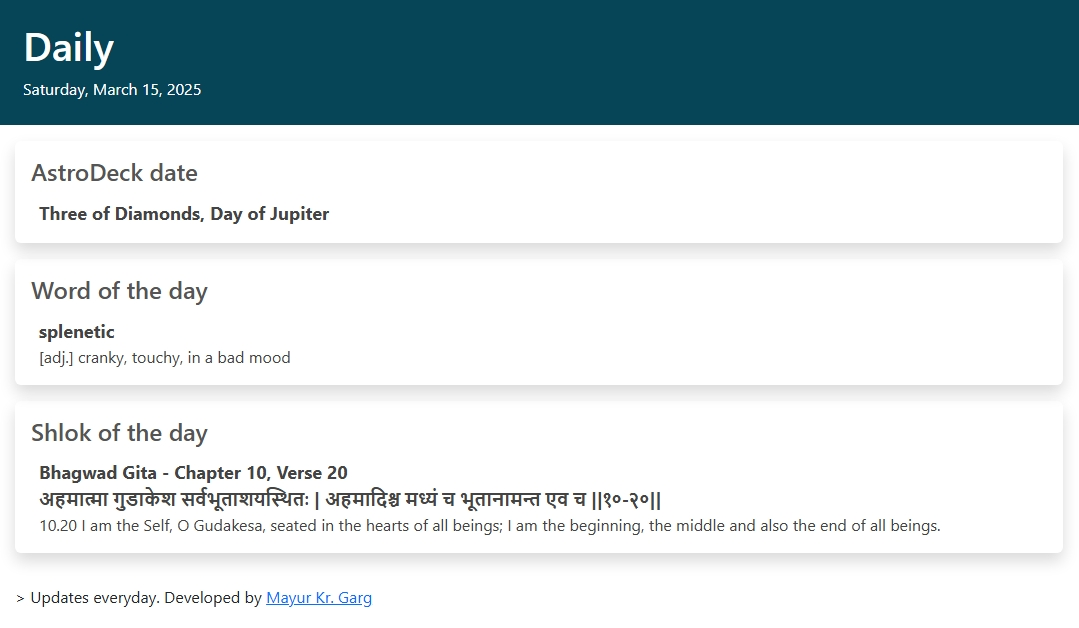
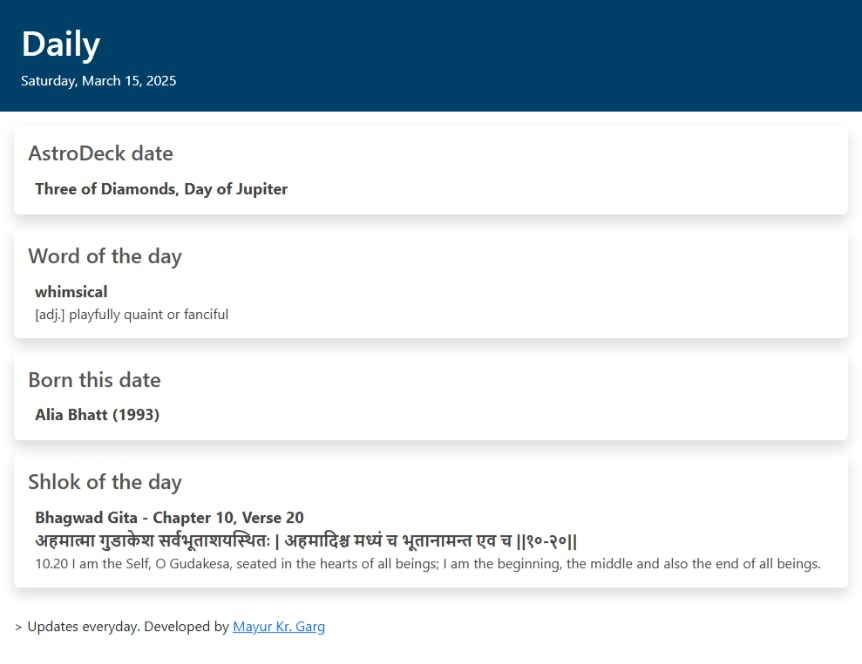
Added born today. Updated data.

diff --git a/index.html b/index.html
@@ -12,7 +12,7 @@
 </head>
 
 <body>
-    <div class="p-4" style="background-color: rgb(24, 136, 104);">
+    <div class="p-4" style="background-color: rgb(8, 93, 74);">
         <h1 id="daily-title">Daily</h1>
         <p id="calendar-date">Sunday, March 23, 2025</p>
     </div>
@@ -22,15 +22,19 @@
     </div>
     <div class="p-3 m-3 rounded shadow">
         <h3 class="section-heading">Word of the day</h3>
-        <p class="section-content bold-content">amass</p>
-        <p class="section-content">[verb] to gather or collect in large amounts</p>
+        <p class="section-content bold-content">heinous</p>
+        <p class="section-content">[adj.] shockingly evil or wicked</p>
+    </div>
+    <div class="p-3 m-3 rounded shadow">
+        <h3 class="section-heading">Born this date</h3>
+        <p class="section-content bold-content">No record of someone born on this date</p>
     </div>
     <div class="p-3 m-3 rounded shadow">
         <h3 class="section-heading">Shlok of the day</h3>
-        <p class="section-content bold-content">Bhagwad Gita - Chapter 10, Verse 35</p>
-        <p class="section-content bold-content">बृहत्साम तथा साम्नां गायत्री छन्दसामहम् |
-मासानां मार्गशीर्षोऽहमृतूनां कुसुमाकरः ||१०-३५||</p>
-        <p class="section-content">10.35 Among the hymns also I am the Brihatsaman; among metres Gayatri am I; among the montsh I am the Margasirsha; among the seasons (I am) the flowery season.</p>
+        <p class="section-content bold-content">Bhagwad Gita - Chapter 18, Verse 8</p>
+        <p class="section-content bold-content">दुःखमित्येव यत्कर्म कायक्लेशभयात्त्यजेत् |
+स कृत्वा राजसं त्यागं नैव त्यागफलं लभेत् ||१८-८||</p>
+        <p class="section-content">18.8 He who abandons action on account of the fear of bodily trouble (because it is painful), does not obtain the merit of renunciation by doing such Rajasic renunciation.</p>
     </div>
     <div class="p-3">
         <p>> Updates everyday. Developed by <a href="https://github.com/mayur7garg" target="_blank">Mayur Kr. Garg</a>

diff --git a/index.template.html b/index.template.html
@@ -26,6 +26,10 @@
         <p class="section-content">{daily_meaning}</p>
     </div>
     <div class="p-3 m-3 rounded shadow">
+        <h3 class="section-heading">Born this date</h3>
+        <p class="section-content bold-content">{born_this_date}</p>
+    </div>
+    <div class="p-3 m-3 rounded shadow">
         <h3 class="section-heading">Shlok of the day</h3>
         <p class="section-content bold-content">Bhagwad Gita - Chapter {daily_shlok_chapter}, Verse {daily_shlok_verse}</p>
         <p class="section-content bold-content">{daily_shlok}</p>

diff --git a/main.py b/main.py
@@ -19,13 +19,25 @@ def get_deck_date(d: date):
 
     return deck_date
 
-def get_word_meaning_of_the_day():
+def get_word_meaning():
     with Path("data", "words.json").open(encoding = "utf-8") as f:
         words: dict = json.load(f)
 
     w = choice(list(words.keys()))
     return w, choice(words[w])
 
+def get_born_this_date(d: date):
+    date_key = d.strftime("%d-%m")
+
+    with Path("data", "dob.json").open(encoding = "utf-8") as f:
+        dob: dict = json.load(f)
+    
+    if date_key in dob:
+        name, year = choice(dob[date_key])
+        return f"{name} ({year})"
+
+    return "No record of someone born on this date"
+        
 def get_shlok():
     with Path("data", "Bhagwad_Gita.json").open(encoding = "utf-8") as f:
         shloks: dict = json.load(f)
@@ -37,9 +49,11 @@ with open("index.template.html", "r", encoding = "utf-8") as t:
     template = t.read()
 
 bg_color = f'style="background-color: rgb({randint(0, 150)}, {randint(0, 150)}, {randint(0, 150)});"'
-calendar_date = date.today().strftime("%A, %B %d, %Y")
-deck_date = get_deck_date(date.today())
-daily_word, daily_meaning = get_word_meaning_of_the_day()
+daily_date = date.today()
+calendar_date = daily_date.strftime("%A, %B %d, %Y")
+deck_date = get_deck_date(daily_date)
+daily_word, daily_meaning = get_word_meaning()
+born_this_date = get_born_this_date(daily_date)
 shlok = get_shlok()
 
 index_html = template.format(
@@ -48,6 +62,7 @@ index_html = template.format(
     deck_date = deck_date,
     daily_word = daily_word,
     daily_meaning = daily_meaning,
+    born_this_date = born_this_date,
     daily_shlok_chapter = shlok['Chapter'],
     daily_shlok_verse = shlok['Verse'],
     daily_shlok = shlok['Shloka'],
